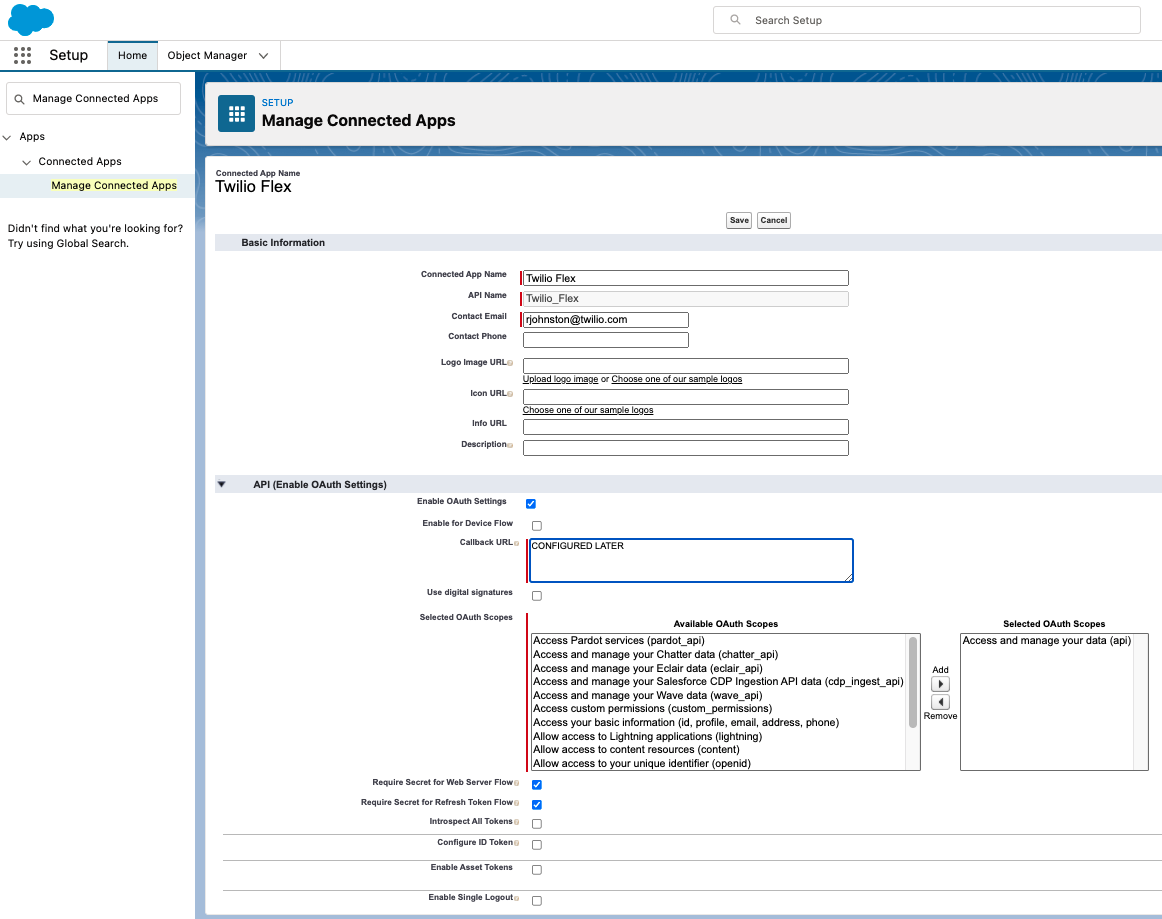
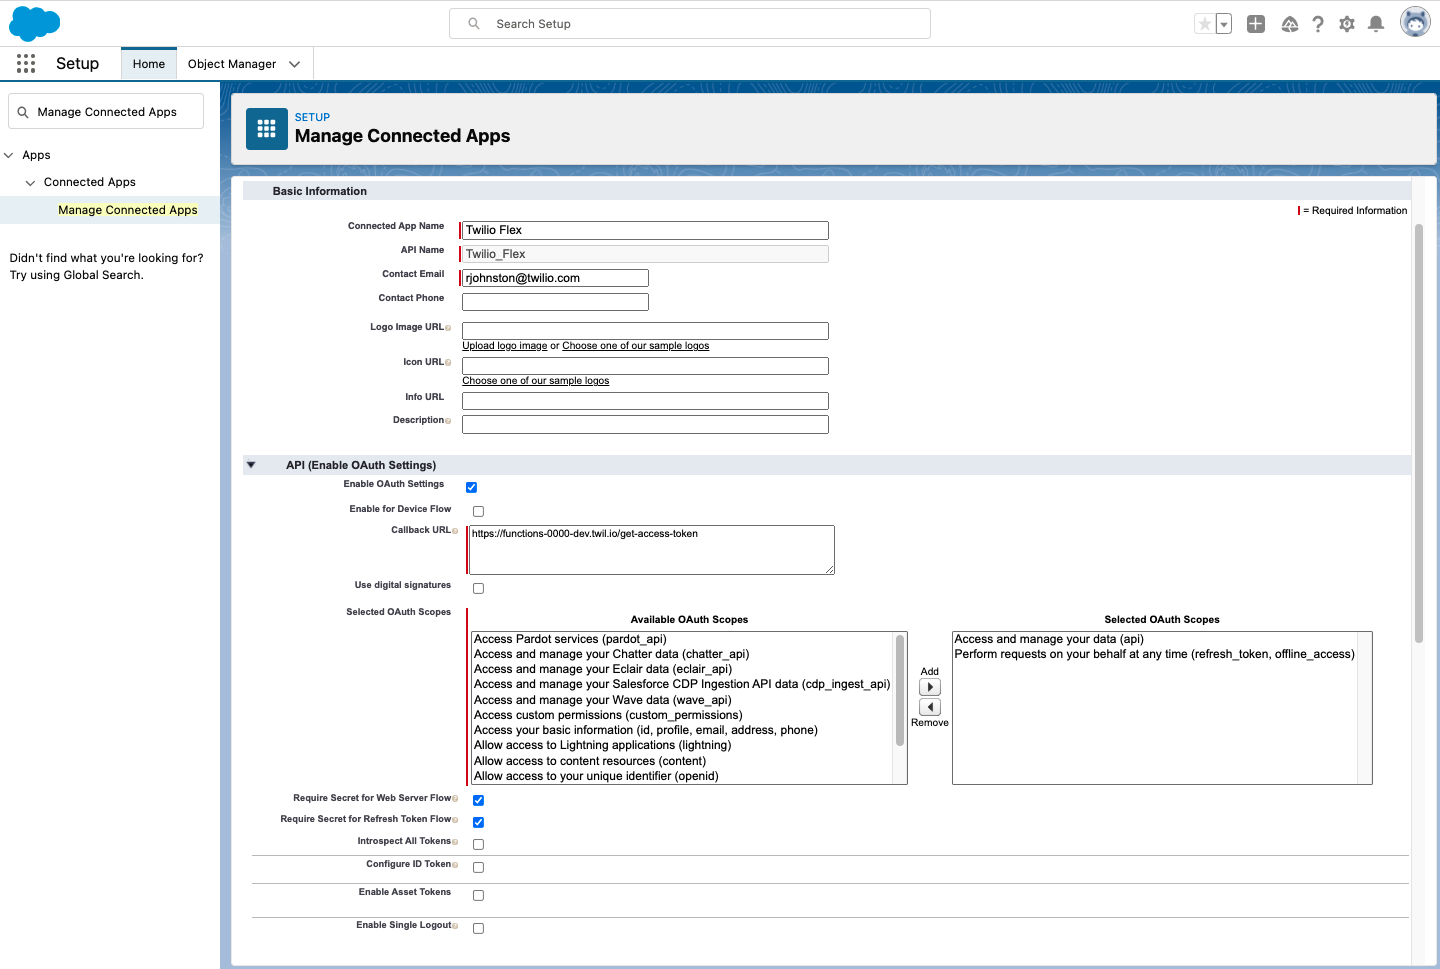
Update readme

Changed region(s): [[0.0, 0.0, 1.0, 1.0], [0.3098, 0.0, 0.4028, 0.0305]]

diff --git a/README.md b/README.md
@@ -34,7 +34,7 @@ To deploy this plugin, you will need:
 
 ## Salesforce Connected App
 
-Create a [Salesforce Connected App](https://help.salesforce.com/articleView?id=sf.connected_app_create_basics.htm) under Salesforce Setup > App Maanger > New Connected App with at least `Access and manage your data (api)` OAuth scope. The Callback URL will be configured later after the Twilio Function has been deployed. 
+Create a [Salesforce Connected App](https://help.salesforce.com/articleView?id=sf.connected_app_create_basics.htm) under Salesforce Setup > App Maanger > New Connected App with at least `Access and manage your data (api)` and `Perform requests on your behalf at any time (refresh_token, offline_access)` OAuth scope. The Callback URL will be configured later after the Twilio Function has been deployed. 
 
 <img width="840px" src="screenshots/salesforce-connected-app.png"/>
 
